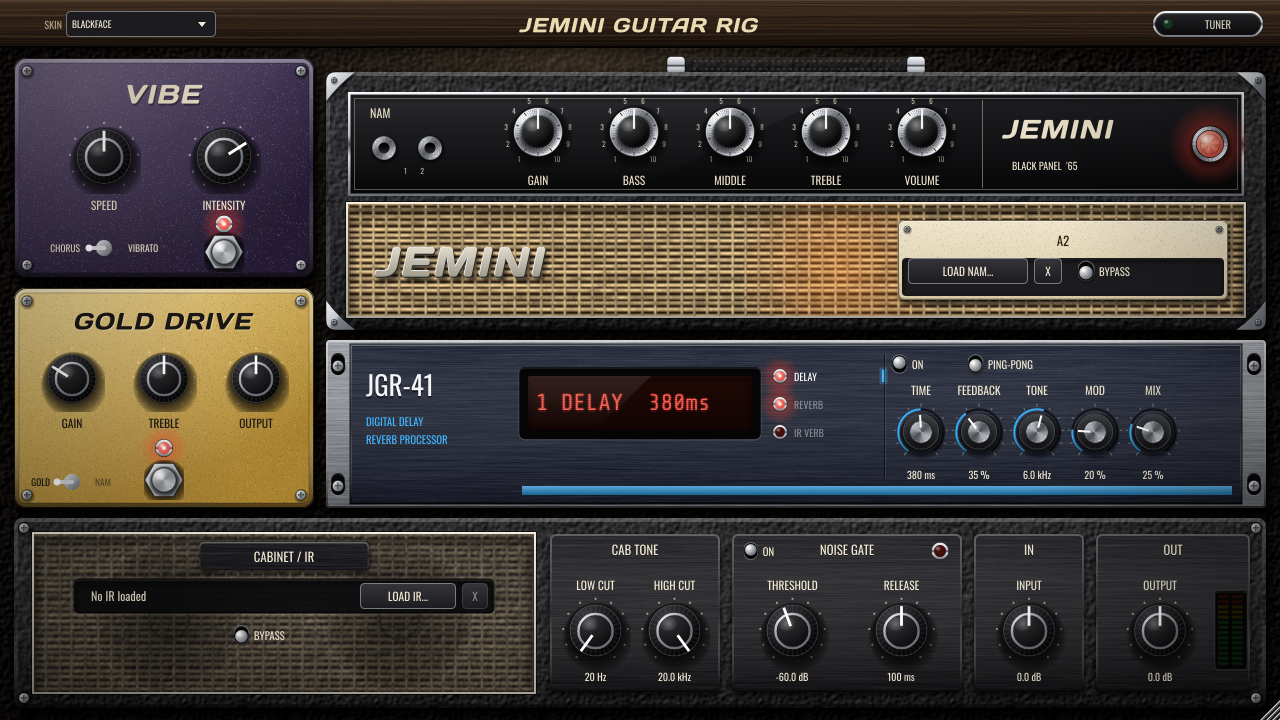
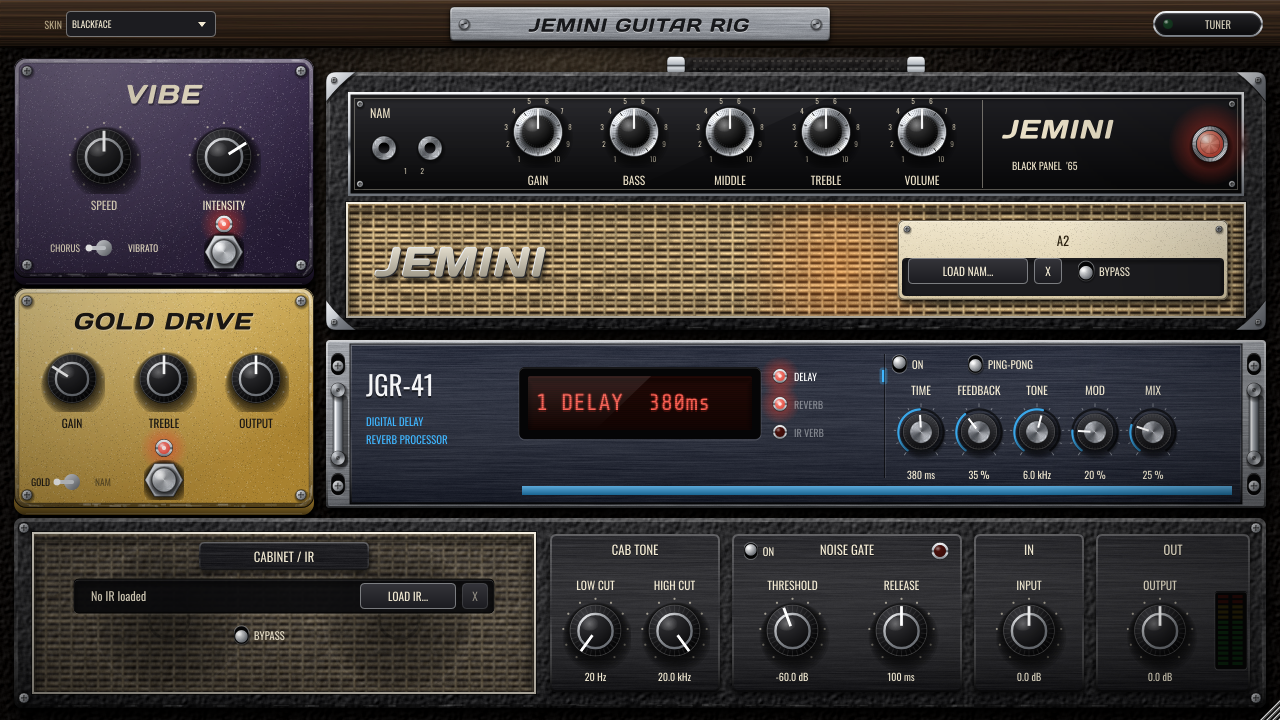
GUI detail pass: worn gear, rack handles, engraved nameplate
- Pedals: visible side wall (box depth), rubbed edges with paint chips,
  hairline scratches on the top
- Amp head and bottom strip: scuffed tolex along the edges
- Corner screws on the amp control panel
- Chrome rack handles with mounting posts on the JGR-41 ears
- Engraved brushed-aluminium nameplate for the title, screwed to the
  walnut bar (rendered once into the cached backdrop)

Claude-Session: https://claude.ai/code/session_01Xrv8MNUsFMci2LD7dNoEYZ

diff --git a/Source/UI/RigPanel.cpp b/Source/UI/RigPanel.cpp
@@ -864,6 +864,55 @@ namespace
     }
 }
 
+namespace
+{
+    // Rubbed / chipped finish along the edges of a rounded box: lighter scuffs
+    // where hands and cases touch it. Deterministic per box (seeded by position).
+    void edgeWear (juce::Graphics& g, juce::Rectangle<float> r, float corner, juce::Colour wearColour,
+                   float amount, int count)
+    {
+        juce::Random rnd ((juce::int64) (r.getX() * 31.0f + r.getY() * 17.0f + r.getWidth()));
+        juce::Path outline;
+        outline.addRoundedRectangle (r.reduced (2.0f), corner);
+        const float len = outline.getLength();
+
+        for (int i = 0; i < count; ++i)
+        {
+            const float at = rnd.nextFloat() * len;
+            const auto p = outline.getPointAlongPath (at);
+            const auto q = outline.getPointAlongPath (juce::jmin (len, at + 3.0f + rnd.nextFloat() * 14.0f));
+            const float inward = rnd.nextFloat() * 2.5f;
+            const auto c = r.getCentre();
+            const auto shift = (c - p) * (inward / juce::jmax (1.0f, p.getDistanceFrom (c)));
+            g.setColour (wearColour.withAlpha (amount * (0.3f + rnd.nextFloat() * 0.7f)));
+            g.drawLine (juce::Line<float> (p + shift, q + shift), 0.8f + rnd.nextFloat() * 1.6f);
+        }
+
+        // a few chips: small bright metal flecks
+        for (int i = 0; i < count / 6; ++i)
+        {
+            const auto p = outline.getPointAlongPath (rnd.nextFloat() * len);
+            const float sz = 0.8f + rnd.nextFloat() * 2.0f;
+            g.setColour (juce::Colour (0xffd6d8dc).withAlpha (amount * (0.6f + rnd.nextFloat() * 0.4f)));
+            g.fillEllipse (juce::Rectangle<float> (sz * 1.6f, sz).withCentre (p));
+        }
+    }
+
+    // Fine hairline scratches on a flat surface
+    void scratches (juce::Graphics& g, juce::Rectangle<float> r, int count, float alpha, int seed)
+    {
+        juce::Random rnd (seed);
+        for (int i = 0; i < count; ++i)
+        {
+            const auto p = juce::Point<float> (r.getX() + rnd.nextFloat() * r.getWidth(), r.getY() + rnd.nextFloat() * r.getHeight());
+            const float a = rnd.nextFloat() * juce::MathConstants<float>::pi;
+            const float l = 6.0f + rnd.nextFloat() * 26.0f;
+            g.setColour (juce::Colours::white.withAlpha (alpha * (0.4f + rnd.nextFloat() * 0.6f)));
+            g.drawLine (p.x, p.y, p.x + std::cos (a) * l, p.y + std::sin (a) * l, 0.6f);
+        }
+    }
+}
+
 // Background wall, title bar and the soft shadows every unit casts on it.
 // Drawn once at design size; paint() just blits it.
 void RigPanel::buildBackdrop()
@@ -903,6 +952,35 @@ void RigPanel::buildBackdrop()
         g.setColour (juce::Colours::white.withAlpha (0.10f));
         g.fillRect (bar.withHeight (1.0f));
         realism::dropShadow (g, bar.withTop (bar.getBottom() - 4.0f), 0.0f, 10, { 0, 4 }, 0.6f);
+
+        // Engraved brushed-aluminium nameplate, screwed to the wood
+        const auto plate = juce::Rectangle<float> (380.0f, 34.0f).withCentre (bar.getCentre());
+        realism::dropShadow (g, plate, 4.0f, 6, { 0, 3 }, 0.8f);
+        g.setFillType (juce::FillType (brushedAlu, juce::AffineTransform::translation (plate.getX(), plate.getY())));
+        g.fillRoundedRectangle (plate, 4.0f);
+        juce::ColourGradient sheenGrad (juce::Colours::white.withAlpha (0.28f), plate.getX(), plate.getY(),
+                                        juce::Colours::black.withAlpha (0.18f), plate.getX(), plate.getBottom(), false);
+        sheenGrad.addColour (0.5, juce::Colours::white.withAlpha (0.04f));
+        g.setGradientFill (sheenGrad);
+        g.fillRoundedRectangle (plate, 4.0f);
+        realism::bevel (g, plate, 4.0f, 1.5f, 0.7f, 0.6f);
+        g.setColour (juce::Colours::black.withAlpha (0.6f));
+        g.drawRoundedRectangle (plate, 4.0f, 0.8f);
+
+        // engraving: dark cut with a light lower lip
+        const auto textArea = plate.reduced (34.0f, 0.0f).translated (0.0f, 1.0f);
+        g.setColour (juce::Colours::white.withAlpha (0.55f));
+        LnF::drawSlantedLogo (g, "JEMINI GUITAR RIG", textArea.translated (0.0f, 1.0f), 24.0f, juce::Justification::centred);
+        g.setColour (juce::Colour (0xff17181b));
+        LnF::drawSlantedLogo (g, "JEMINI GUITAR RIG", textArea, 24.0f, juce::Justification::centred);
+
+        for (auto p : { juce::Point<float> (plate.getX() + 14.0f, plate.getCentreY()), juce::Point<float> (plate.getRight() - 14.0f, plate.getCentreY()) })
+        {
+            realism::softShadowEllipse (g, p, 4.5f, 2.0f, { 0.6f, 1.2f }, 0.45f);
+            realism::spunMetal (g, p, 4.5f, juce::Colour (0xffb8bcc2), 55.0f);
+            g.setColour (juce::Colours::black.withAlpha (0.65f));
+            g.drawLine (p.x - 3.0f, p.y + 1.0f, p.x + 3.0f, p.y - 1.0f, 1.1f);
+        }
     }
 
     // Soft shadows: a wide ambient one plus a tight contact one per unit
@@ -911,8 +989,8 @@ void RigPanel::buildBackdrop()
         realism::dropShadow (g, r.toFloat(), corner, 26, { 4, 14 }, 0.75f);
         realism::dropShadow (g, r.toFloat(), corner, 5,  { 1, 3 },  0.85f);
     };
-    castShadow (vibeArea, 12.0f);
-    castShadow (odArea, 12.0f);
+    castShadow (vibeArea.withHeight (vibeArea.getHeight() + 7), 12.0f);
+    castShadow (odArea.withHeight (odArea.getHeight() + 7), 12.0f);
     castShadow (ampArea.withTrimmedTop (14), 10.0f);
     castShadow (rackArea, 4.0f);
     castShadow (bottomArea, 8.0f);
@@ -940,8 +1018,6 @@ void RigPanel::paint (juce::Graphics& g)
     g.drawImageAt (backdrop, 0, 0);
 
     const auto& sk = skin();
-    g.setColour (sk.titleText);
-    LnF::drawSlantedLogo (g, "JEMINI GUITAR RIG", titleBar.toFloat().translated (0.0f, 1.0f), 26.0f, juce::Justification::centred);
     g.setColour (sk.titleText.withAlpha (0.7f));
     g.setFont (LnF::condensed (15.0f));
     g.drawText ("SKIN", juce::Rectangle<int> (18, 11, 44, 26), juce::Justification::centredRight, false);
@@ -1018,6 +1094,17 @@ void RigPanel::drawPedal (juce::Graphics& g, juce::Rectangle<float> r, juce::Col
 {
     constexpr float corner = 12.0f;
 
+    // Side wall of the die-cast box (we look at it slightly from the front)
+    {
+        const auto side = r.translated (0.0f, 7.0f);
+        juce::ColourGradient wall (bottom.darker (0.35f), side.getX(), side.getBottom() - 10.0f,
+                                   bottom.darker (1.4f), side.getX(), side.getBottom(), false);
+        g.setGradientFill (wall);
+        g.fillRoundedRectangle (side, corner);
+        g.setColour (juce::Colours::white.withAlpha (0.10f));
+        g.drawHorizontalLine ((int) side.getBottom() - 2, side.getX() + corner, side.getRight() - corner);
+    }
+
     // Die-cast enclosure: rounded edges catch the light, flat top is lit from above
     juce::ColourGradient body (top.brighter (0.12f), r.getX(), r.getY(), bottom, r.getX() + r.getWidth() * 0.3f, r.getBottom(), false);
     body.addColour (0.55, top.interpolatedWith (bottom, 0.5f));
@@ -1040,6 +1127,10 @@ void RigPanel::drawPedal (juce::Graphics& g, juce::Rectangle<float> r, juce::Col
     g.drawRoundedRectangle (r.reduced (5.0f), corner - 5.0f, 1.0f);
     g.setColour (juce::Colours::black.withAlpha (0.8f));
     g.drawRoundedRectangle (r.reduced (0.5f), corner, 1.0f);
+
+    // Gig wear: rubbed edges, chips and hairline scratches
+    edgeWear (g, r, corner, juce::Colours::white, 0.22f, 90);
+    scratches (g, r.reduced (16.0f), 14, 0.07f, (int) r.getY());
 
     // Bottom-plate screws
     for (auto p : { r.getTopLeft().translated (13, 13), r.getTopRight().translated (-13, 13),
@@ -1138,6 +1229,7 @@ void RigPanel::drawAmpHead (juce::Graphics& g) const
     g.setGradientFill (light);
     g.fillRoundedRectangle (cab, 10.0f);
     realism::bevel (g, cab, 10.0f, 4.0f, 0.22f, 0.6f);
+    edgeWear (g, cab, 10.0f, juce::Colours::white, 0.09f, 260);
 
     // Chrome corner protectors with rivets
     for (int i = 0; i < 4; ++i)
@@ -1197,6 +1289,9 @@ void RigPanel::drawAmpHead (juce::Graphics& g) const
     g.drawRect (panel, 2.5f);
     g.setColour (sk.panelTrim.withAlpha (0.45f));
     g.drawRect (panel.reduced (6.0f), 1.0f);
+    for (auto p : { panel.getTopLeft().translated (12, 12), panel.getTopRight().translated (-12, 12),
+                    panel.getBottomLeft().translated (12, -12), panel.getBottomRight().translated (-12, -12) })
+        drawScrew (g, p, 3.2f);
 
     // Channel label + input jacks (hex nut, chrome ring, dark socket)
     g.setColour (sk.panelText);
@@ -1361,6 +1456,38 @@ void RigPanel::drawRack (juce::Graphics& g) const
             drawScrew (g, { x, y + 2.0f }, 5.5f);
         }
 
+    // Chrome rack handles on both ears
+    for (auto x : { a.getX() + 12.0f, a.getRight() - 12.0f })
+    {
+        const float y0 = a.getY() + 48.0f, y1 = a.getBottom() - 48.0f;
+        const auto bar = juce::Rectangle<float> (x - 5.0f, y0, 10.0f, y1 - y0);
+
+        // cast shadow on the ear (handle stands off the panel)
+        g.setColour (juce::Colours::black.withAlpha (0.45f));
+        g.fillRoundedRectangle (bar.translated (4.0f, 7.0f).expanded (1.0f, 0.0f), 5.0f);
+
+        // round bar: cylindrical chrome shading across its width
+        juce::ColourGradient cyl (juce::Colour (0xff5e636a), bar.getX(), 0.0f, juce::Colour (0xff3a3e44), bar.getRight(), 0.0f, false);
+        cyl.addColour (0.25, juce::Colour (0xfff6f7f9));
+        cyl.addColour (0.45, juce::Colour (0xffb5bac1));
+        cyl.addColour (0.70, juce::Colour (0xff7d8289));
+        g.setGradientFill (cyl);
+        g.fillRoundedRectangle (bar, 5.0f);
+        g.setColour (juce::Colours::black.withAlpha (0.5f));
+        g.drawRoundedRectangle (bar, 5.0f, 0.7f);
+
+        // mounting posts
+        for (auto y : { y0 + 2.0f, y1 - 2.0f })
+        {
+            realism::softShadowEllipse (g, { x, y }, 6.5f, 3.0f, { 1.5f, 3.0f }, 0.45f);
+            realism::spunMetal (g, { x, y }, 7.0f, juce::Colour (0xffb8bcc2), 60.0f);
+            g.setColour (juce::Colours::black.withAlpha (0.6f));
+            g.drawEllipse (juce::Rectangle<float> (14.0f, 14.0f).withCentre ({ x, y }), 0.7f);
+            g.setColour (juce::Colours::black.withAlpha (0.5f));
+            g.fillEllipse (juce::Rectangle<float> (4.0f, 4.0f).withCentre ({ x, y }));
+        }
+    }
+
     // Anodised, brushed front panel
     const auto face = a.reduced (24.0f, 4.0f);
     fillTextured (g, face, 0.0f, brushedRack);
@@ -1479,6 +1606,7 @@ void RigPanel::drawBottomStrip (juce::Graphics& g) const
     g.setGradientFill (light);
     g.fillRoundedRectangle (a, 8.0f);
     realism::bevel (g, a, 8.0f, 4.0f, 0.22f, 0.6f);
+    edgeWear (g, a, 8.0f, juce::Colours::white, 0.09f, 260);
 
     for (auto p : { a.getTopLeft().translated (10, 10), a.getTopRight().translated (-10, 10),
                     a.getBottomLeft().translated (10, -10), a.getBottomRight().translated (-10, -10) })
